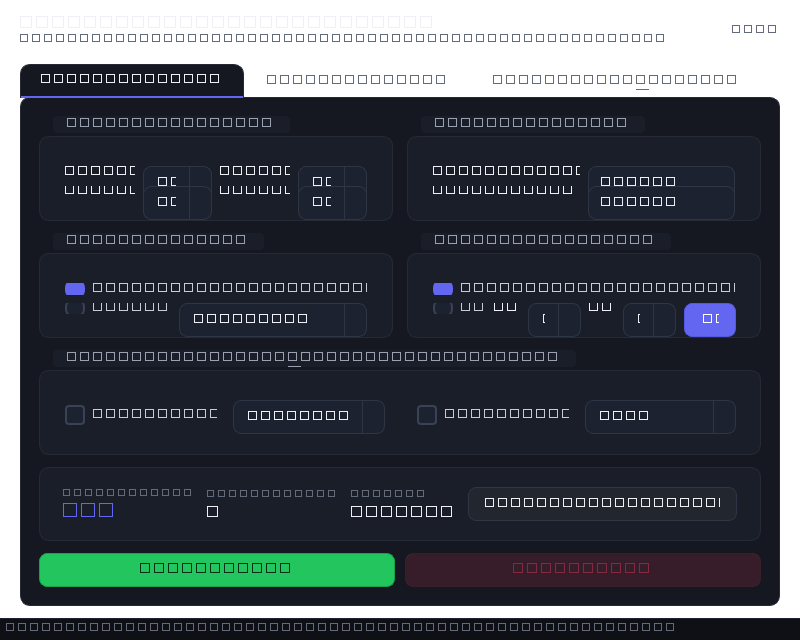
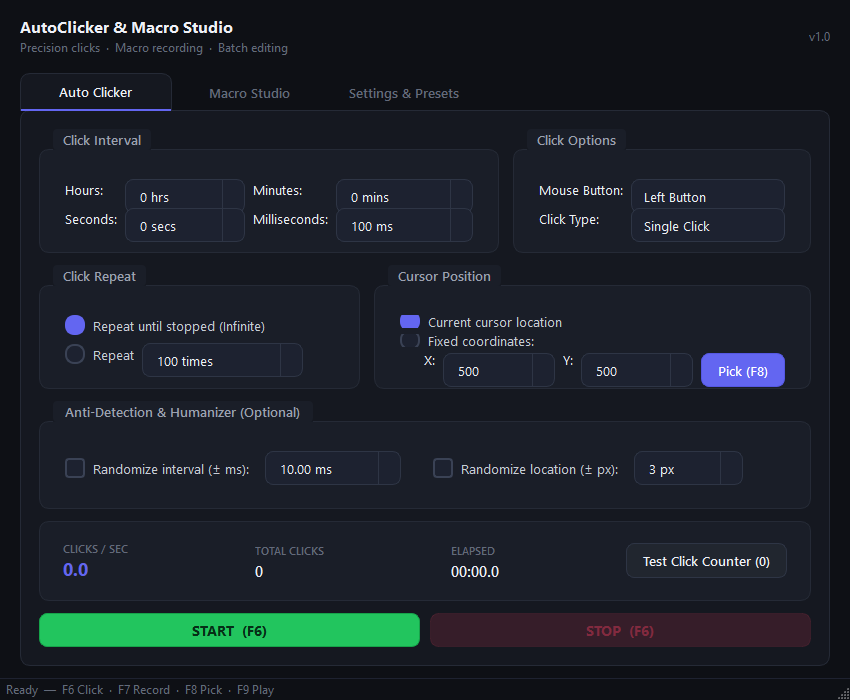
fix: resolve font rendering and improve UI screenshot clarity

diff --git a/src/ui/autoclicker_tab.py b/src/ui/autoclicker_tab.py
@@ -52,7 +52,7 @@ class AutoClickerTab(QWidget):
         row1.setSpacing(14)
 
         # 1. Click Interval Group
-        grp_interval = QGroupBox("⏱ Click Interval")
+        grp_interval = QGroupBox("Click Interval")
         grid_interval = QGridLayout(grp_interval)
         grid_interval.setSpacing(8)
 
@@ -89,7 +89,7 @@ class AutoClickerTab(QWidget):
         row1.addWidget(grp_interval, 3)
 
         # 2. Click Options Group
-        grp_options = QGroupBox("🖱 Click Options")
+        grp_options = QGroupBox("Click Options")
         grid_options = QGridLayout(grp_options)
         grid_options.setSpacing(8)
 
@@ -118,7 +118,7 @@ class AutoClickerTab(QWidget):
         row2.setSpacing(14)
 
         # 3. Click Repeat Group
-        grp_repeat = QGroupBox("🔁 Click Repeat")
+        grp_repeat = QGroupBox("Click Repeat")
         vbox_repeat = QVBoxLayout(grp_repeat)
         vbox_repeat.setSpacing(8)
 
@@ -144,20 +144,21 @@ class AutoClickerTab(QWidget):
         row2.addWidget(grp_repeat, 1)
 
         # 4. Cursor Position Group
-        grp_pos = QGroupBox("📍 Cursor Position")
+        grp_pos = QGroupBox("Cursor Position")
         vbox_pos = QVBoxLayout(grp_pos)
-        vbox_pos.setSpacing(8)
+        vbox_pos.setSpacing(6)
 
         self.rb_current_pos = QRadioButton("Current cursor location")
         self.rb_current_pos.setChecked(True)
-        self.rb_fixed_pos = QRadioButton("Fixed coordinate:")
+        self.rb_fixed_pos = QRadioButton("Fixed coordinates:")
 
         self.btn_grp_pos = QButtonGroup(self)
         self.btn_grp_pos.addButton(self.rb_current_pos, 1)
         self.btn_grp_pos.addButton(self.rb_fixed_pos, 2)
 
         coord_row = QHBoxLayout()
-        coord_row.addWidget(self.rb_fixed_pos)
+        coord_row.setSpacing(8)
+        coord_row.addSpacing(24)
         coord_row.addWidget(QLabel("X:"))
         self.spin_fixed_x = QSpinBox()
         self.spin_fixed_x.setRange(0, 99999)
@@ -170,18 +171,19 @@ class AutoClickerTab(QWidget):
         self.spin_fixed_y.setValue(500)
         coord_row.addWidget(self.spin_fixed_y)
 
-        self.btn_pick = QPushButton("🎯 Pick (F8)")
+        self.btn_pick = QPushButton("Pick (F8)")
         self.btn_pick.setObjectName("btn_accent")
         self.btn_pick.clicked.connect(self.start_picking_coords)
         coord_row.addWidget(self.btn_pick)
 
         vbox_pos.addWidget(self.rb_current_pos)
+        vbox_pos.addWidget(self.rb_fixed_pos)
         vbox_pos.addLayout(coord_row)
         row2.addWidget(grp_pos, 1)
         main_layout.addLayout(row2)
 
         # Anti-Detection / Humanizer Settings
-        grp_anti = QGroupBox("🛡 Anti-Detection & Humanizer (Optional)")
+        grp_anti = QGroupBox("Anti-Detection && Humanizer (Optional)")
         anti_layout = QHBoxLayout(grp_anti)
         anti_layout.setSpacing(16)
 

diff --git a/src/ui/macro_studio_tab.py b/src/ui/macro_studio_tab.py
@@ -112,6 +112,7 @@ class MacroStudioTab(QWidget):
         self.table.setColumnCount(6)
         self.table.setHorizontalHeaderLabels(["#", "Type", "Details", "Delay", "Duration", "✓"])
         self.table.setAlternatingRowColors(True)
+        self.table.verticalHeader().setVisible(False)
         self.table.horizontalHeader().setSectionResizeMode(0, QHeaderView.ResizeMode.ResizeToContents)
         self.table.horizontalHeader().setSectionResizeMode(1, QHeaderView.ResizeMode.ResizeToContents)
         self.table.horizontalHeader().setSectionResizeMode(2, QHeaderView.ResizeMode.Stretch)
@@ -171,7 +172,7 @@ class MacroStudioTab(QWidget):
         main_layout.addLayout(mid_layout, 1)
 
         # 3. Bottom Playback & Recording Settings Area
-        bottom_box = QGroupBox("⚙ Playback & Recording Options")
+        bottom_box = QGroupBox("Playback && Recording Options")
         bot_layout = QHBoxLayout(bottom_box)
         bot_layout.setSpacing(20)
 

diff --git a/src/ui/main_window.py b/src/ui/main_window.py
@@ -56,6 +56,7 @@ class MainWindow(QMainWindow):
 
     def _init_ui(self) -> None:
         central = QWidget(self)
+        central.setObjectName("centralWidget")
         self.setCentralWidget(central)
         layout = QVBoxLayout(central)
         layout.setContentsMargins(20, 16, 20, 12)
@@ -89,9 +90,9 @@ class MainWindow(QMainWindow):
         self.tab_autoclicker.status_changed.connect(self._on_autoclicker_status)
         self.tab_studio.status_changed.connect(self._on_studio_status)
 
-        self.tabs.addTab(self.tab_autoclicker, "⚡ Auto Clicker")
-        self.tabs.addTab(self.tab_studio, "🎬 Macro Studio")
-        self.tabs.addTab(self.tab_settings, "⚙ Settings & Presets")
+        self.tabs.addTab(self.tab_autoclicker, "Auto Clicker")
+        self.tabs.addTab(self.tab_studio, "Macro Studio")
+        self.tabs.addTab(self.tab_settings, "Settings && Presets")
         layout.addWidget(self.tabs, 1)
 
         # Status Bar

diff --git a/src/ui/settings_tab.py b/src/ui/settings_tab.py
@@ -59,7 +59,7 @@ class SettingsTab(QWidget):
         layout.addWidget(grp_hotkeys)
 
         # 2. Preset Library & Import / Export
-        grp_presets = QGroupBox("PRESET LIBRARY & STORAGE")
+        grp_presets = QGroupBox("PRESET LIBRARY && STORAGE")
         pre_layout = QVBoxLayout(grp_presets)
         pre_layout.setSpacing(10)
 
@@ -94,7 +94,7 @@ class SettingsTab(QWidget):
         layout.addWidget(grp_presets)
 
         # 3. HUD & Behavior Preferences
-        grp_hud = QGroupBox("OVERLAY & WINDOW PREFERENCES")
+        grp_hud = QGroupBox("OVERLAY && WINDOW PREFERENCES")
         hud_layout = QVBoxLayout(grp_hud)
         hud_layout.setSpacing(8)
 

diff --git a/src/ui/styles.py b/src/ui/styles.py
@@ -67,12 +67,14 @@ MAIN_STYLE = """
     outline: none;
 }
 
-QMainWindow {
+QMainWindow, QWidget#centralWidget, QDialog {
     background-color: #0e1015;
+    color: #eef0f6;
+    font-family: 'Segoe UI Variable', 'Segoe UI', 'Inter', system-ui, sans-serif;
+    font-size: 13px;
 }
 
 QWidget {
-    background-color: transparent;
     color: #eef0f6;
     font-family: 'Segoe UI Variable', 'Segoe UI', 'Inter', system-ui, sans-serif;
     font-size: 13px;
